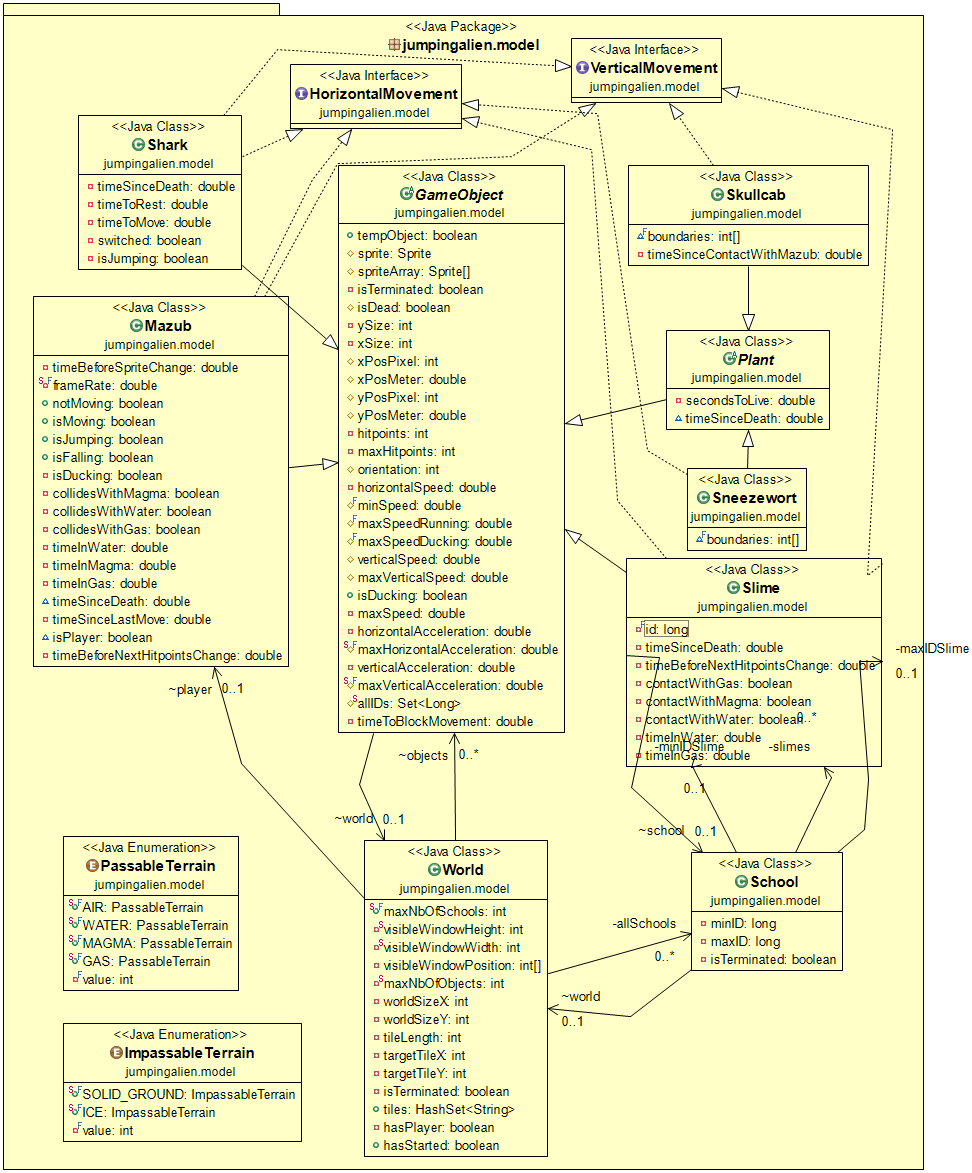
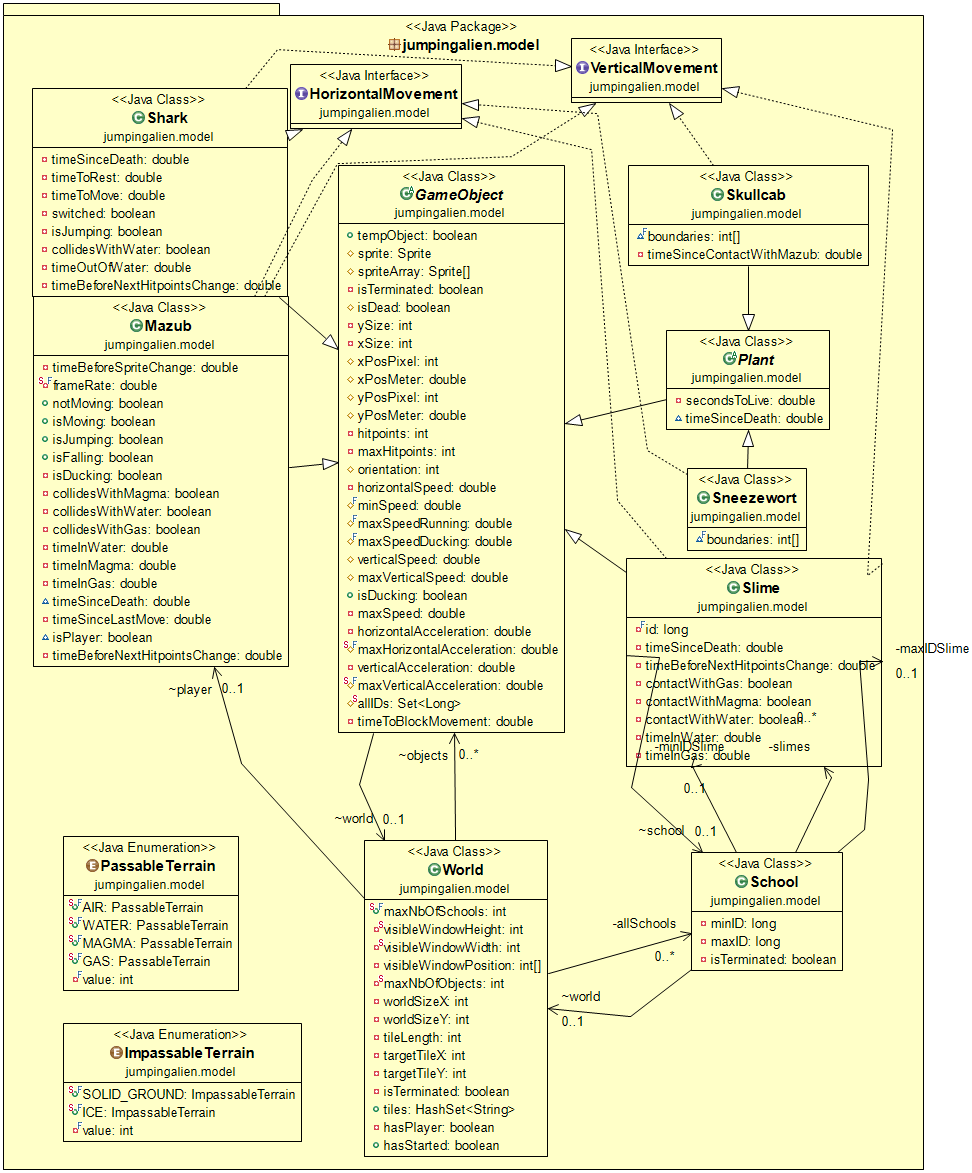
1252

Changed region(s): [[0.0309, 0.0614, 0.2778, 0.2455]]

diff --git a/OGP1819-JumpingAlien/src/jumpingalien/model/Shark.java b/OGP1819-JumpingAlien/src/jumpingalien/model/Shark.java
@@ -1,5 +1,6 @@
 package jumpingalien.model;
 
+import java.util.ArrayList;
 import java.util.List;
 
 import jumpingalien.util.Sprite;
@@ -115,14 +116,19 @@ public class Shark extends GameObject implements HorizontalMovement, VerticalMov
 
     private void stayInPosition(double dt) {
 	setSprite(getSpriteArray()[0]);
+	setHorizontalSpeedMeters(0);
+	setHorizontalAcceleration(0);
 	if (!isStandingOnImpassableTerrain() && !isUnderWater()) {
+	    setVerticalAcceleration(maxVerticalAcceleration);
 	    final double newPosY = getYPositionActual() + getVerticalSpeedMeters() * dt
 		    + 0.5 * getVerticalAcceleration() * dt * dt;
 	    final double newSpeedY = getVerticalSpeedMeters() + getVerticalAcceleration() * dt;
 	    setYPositionActual(newPosY);
 	    setVerticalSpeedMeters(newSpeedY);
-	} else
+	} else {
 	    setVerticalSpeedMeters(0);
+	    setVerticalAcceleration(0);
+	}
     }
 
     private double getTimeToRest() {
@@ -142,72 +148,61 @@ public class Shark extends GameObject implements HorizontalMovement, VerticalMov
 	return timeToMove;
     }
 
-    private void updatePosition(double dt) {
-	if (getOrientation() == -1)
-	    setSprite(getSpriteArray()[1]);
-	else if (getOrientation() == 1)
-	    setSprite(getSpriteArray()[2]);
-	else
-	    setSprite(getSpriteArray()[0]);
-	if (getTimeToMove() == 0.5 && (isInWater() || isStandingOnImpassableTerrain())) {
-	    setMaxSpeed();
-	    setVerticalSpeedMeters(2);
-	    if (isUnderWater())
-		setVerticalAcceleration(0.0);
-//		setVerticalSpeedMeters(0);
-	    else
-		setVerticalAcceleration(maxVerticalAcceleration);
-	} else if (isInWater())
-	    if (isUnderWater())
-		setVerticalAcceleration(0.0);
-	    else
-		setVerticalAcceleration(maxVerticalAcceleration);
-	else if (getTimeToMove() == 0.5 && !isUnderWater())
-	    setVerticalAcceleration(maxVerticalAcceleration);
-	else
-	    setVerticalAcceleration(maxVerticalAcceleration);
-
-	setHorizontalAcceleration(1.5 * getOrientation());
-
-	final double newPosX = getXPositionActual() + Math.abs(getHorizontalSpeedMeters()) * getOrientation() * dt
-		+ 0.5 * getHorizontalAcceleration() * dt * dt;
-	final double newPosY = getYPositionActual() + getVerticalSpeedMeters() * dt
-		+ 0.5 * getVerticalAcceleration() * dt * dt;
-	final double newSpeedX = Math.abs(getHorizontalSpeedMeters()) * getOrientation()
-		+ getHorizontalAcceleration() * dt;
-	final double newSpeedY = getVerticalSpeedMeters() + getVerticalAcceleration() * dt;
-	final int xSize = getXsize();
-	final int ySize = getYsize();
-
-	final Shark newSharkBoth = new Shark((int) (newPosX * 100), (int) (newPosY * 100), xSize, ySize, 1, 1, 10, 10,
-		0, 10, 0, 0, newSpeedX, newSpeedY, true, getSpriteArray());
-
-	final boolean canPlaceBothShark = getWorld().canPlaceGameObjectAdvanceTime(newSharkBoth, this);
-
-	if (canPlaceBothShark) {
-	    setXPositionActual(newPosX);
-	    setYPositionActual(newPosY);
-	    setHorizontalSpeedMeters(newSpeedX);
-	    setVerticalSpeedMeters(newSpeedY);
-	} else {
-	    setHorizontalSpeedMeters(0);
-	    setVerticalSpeedMeters(0);
-	    setHorizontalAcceleration(0);
-	}
-//	else if (canPlaceXShark) {
-//	    setHorizontalSpeedMeters(newSpeedX);
+//    private void updatePosition(double dt) {
+//	if (getOrientation() == -1)
+//	    setSprite(getSpriteArray()[1]);
+//	else if (getOrientation() == 1)
+//	    setSprite(getSpriteArray()[2]);
+//	else
+//	    setSprite(getSpriteArray()[0]);
+//
+//	if (getTimeToMove() == 0.5 && (isInWater() || isStandingOnImpassableTerrain())) {
+//	    setMaxSpeed();
+//	    setVerticalSpeedMeters(2);
+//	    if (isUnderWater())
+//		setVerticalAcceleration(0.0);
+////		setVerticalSpeedMeters(0);
+//	    else
+//		setVerticalAcceleration(maxVerticalAcceleration);
+//	} else if (isInWater())
+//	    if (isUnderWater())
+//		setVerticalAcceleration(0.0);
+//	    else
+//		setVerticalAcceleration(maxVerticalAcceleration);
+//	else if (getTimeToMove() == 0.5 && !isUnderWater())
+//	    setVerticalAcceleration(maxVerticalAcceleration);
+//	else
+//	    setVerticalAcceleration(maxVerticalAcceleration);
+//
+//	setHorizontalAcceleration(1.5 * getOrientation());
+//
+//	final double newPosX = getXPositionActual() + Math.abs(getHorizontalSpeedMeters()) * getOrientation() * dt
+//		+ 0.5 * getHorizontalAcceleration() * dt * dt;
+//	final double newPosY = getYPositionActual() + getVerticalSpeedMeters() * dt
+//		+ 0.5 * getVerticalAcceleration() * dt * dt;
+//	final double newSpeedX = Math.abs(getHorizontalSpeedMeters()) * getOrientation()
+//		+ getHorizontalAcceleration() * dt;
+//	final double newSpeedY = getVerticalSpeedMeters() + getVerticalAcceleration() * dt;
+//	final int xSize = getXsize();
+//	final int ySize = getYsize();
+//
+//	final Shark newSharkBoth = new Shark((int) (newPosX * 100), (int) (newPosY * 100), xSize, ySize, 1, 1, 10, 10,
+//		0, 10, 0, 0, newSpeedX, newSpeedY, true, getSpriteArray());
+//
+//	final boolean canPlaceBothShark = getWorld().canPlaceGameObjectAdvanceTime(newSharkBoth, this);
+//
+//	if (canPlaceBothShark) {
 //	    setXPositionActual(newPosX);
-//	    setVerticalSpeedMeters(0);
-//	} else if (canPlaceYShark) {
-//	    setVerticalSpeedMeters(newSpeedY);
 //	    setYPositionActual(newPosY);
-//	    setHorizontalSpeedMeters(0);
+//	    setHorizontalSpeedMeters(newSpeedX);
+//	    setVerticalSpeedMeters(newSpeedY);
 //	} else {
 //	    setHorizontalSpeedMeters(0);
 //	    setVerticalSpeedMeters(0);
 //	    setHorizontalAcceleration(0);
 //	}
-    }
+//
+//    }
 
     private double getTimeSinceDeath() {
 	return timeSinceDeath;
@@ -233,6 +228,9 @@ public class Shark extends GameObject implements HorizontalMovement, VerticalMov
     }
 
     private boolean isJumping;
+    private boolean collidesWithWater;
+    private double timeOutOfWater = 0;
+    private double timeBeforeNextHitpointsChange = 0;
 
     private boolean isUnderWater() {
 	if (getWorld() == null)
@@ -256,5 +254,97 @@ public class Shark extends GameObject implements HorizontalMovement, VerticalMov
 	    if (getWorld().getGeologicalFeatureTile(tile) == PassableTerrain.WATER.getValue())
 		return true;
 	return false;
+    }
+
+    private void updatePosition(double dt) {
+	if (getOrientation() == -1)
+	    setSprite(getSpriteArray()[1]);
+	else if (getOrientation() == 1)
+	    setSprite(getSpriteArray()[2]);
+	else
+	    setSprite(getSpriteArray()[0]);
+
+	if (getTimeToMove() == 0.5) {
+	    if (isInWater() || isStandingOnImpassableTerrain())
+		setVerticalSpeedMeters(2.0);
+	    if (isUnderWater()) {
+		setVerticalAcceleration(0);
+		if (getVerticalSpeedMeters() < 0)
+		    setVerticalSpeedMeters(0);
+	    } else
+		setVerticalAcceleration(maxVerticalAcceleration);
+	} else if (isUnderWater()) {
+	    setVerticalAcceleration(0);
+	    if (getVerticalSpeedMeters() < 0)
+		setVerticalSpeedMeters(0);
+	} else
+	    setVerticalAcceleration(maxVerticalAcceleration);
+	setHorizontalAcceleration(1.5 * getOrientation());
+
+	final double newPosX = getXPositionActual() + Math.abs(getHorizontalSpeedMeters()) * getOrientation() * dt
+		+ 0.5 * getHorizontalAcceleration() * dt * dt;
+	final double newPosY = getYPositionActual() + getVerticalSpeedMeters() * dt
+		+ 0.5 * getVerticalAcceleration() * dt * dt;
+	final double newSpeedX = Math.abs(getHorizontalSpeedMeters()) * getOrientation()
+		+ getHorizontalAcceleration() * dt;
+	final double newSpeedY = getVerticalSpeedMeters() + getVerticalAcceleration() * dt;
+	final int xSize = getXsize();
+	final int ySize = getYsize();
+
+	final Shark newSharkBoth = new Shark((int) (newPosX * 100), (int) (newPosY * 100), xSize, ySize, 1, 1, 10, 10,
+		0, 10, 0, 0, newSpeedX, newSpeedY, true, getSpriteArray());
+
+	if (getWorld().canPlaceGameObjectAdvanceTime(newSharkBoth, this)) {
+	    setXPositionActual(newPosX);
+	    setYPositionActual(newPosY);
+	    setHorizontalSpeedMeters(newSpeedX);
+	    setVerticalSpeedMeters(newSpeedY);
+	} else {
+	    setHorizontalSpeedMeters(0);
+	    setVerticalSpeedMeters(0);
+	    setHorizontalAcceleration(0);
+	}
+
+	List<int[]> tiles = new ArrayList<int[]>();
+	tiles = getAllOverlappingTiles();
+
+	collidesWithWater = false;
+
+	for (final int[] tile : tiles)
+	    if (getWorld().getGeologicalFeatureTile(tile) == PassableTerrain.WATER.getValue())
+		collidesWithWater = true;
+
+	if (!collidesWithWater)
+	    timeOutOfWater += dt;
+	else
+	    timeOutOfWater = 0;
+
+	if (timeOutOfWater >= 0.2) {
+	    timeOutOfWater -= 0.2;
+	    changeHitPoints(-6);
+	}
+
+	if (getWorld() != null)
+	    for (final Object gameObject : getWorld().getAllObjects()) {
+		if (newSharkBoth.collidesWith((GameObject) gameObject) && gameObject instanceof Slime)
+		    changeHitPoints(10);
+
+		if (newSharkBoth.collidesWith((GameObject) gameObject) && gameObject instanceof Mazub)
+		    if (getTimeBeforeNextHitpointsChange() <= 0) {
+			changeHitPoints(-50);
+			setTimeBeforeNextHitpointsChange(0.6);
+		    }
+	    }
+
+	setTimeBeforeNextHitpointsChange(getTimeBeforeNextHitpointsChange() - dt);
+	newSharkBoth.terminate();
+    }
+
+    private double getTimeBeforeNextHitpointsChange() {
+	return timeBeforeNextHitpointsChange;
+    }
+
+    private void setTimeBeforeNextHitpointsChange(double dt) {
+	timeBeforeNextHitpointsChange = dt;
     }
 }

diff --git a/OGP1819-JumpingAlien/src/jumpingalien/model/Slime.java b/OGP1819-JumpingAlien/src/jumpingalien/model/Slime.java
@@ -101,9 +101,14 @@ public class Slime extends GameObject implements Comparable<Slime>, HorizontalMo
     @Override
     public void advanceTime(double dt, double timeStep) {
 	if (!isDead()) {
-	    while (dt > timeStep && !isDead() && !isTerminated()) {
-		updatePosition(timeStep);
-		dt -= timeStep;
+	    double nextTimeStep = timeStep;
+	    while (dt > nextTimeStep && !isDead() && !isTerminated()) {
+		updatePosition(nextTimeStep);
+		dt -= nextTimeStep;
+		if (getWorld() != null)
+		    nextTimeStep = getWorld().getTimeStep(this, dt);
+		else
+		    nextTimeStep = timeStep;
 	    }
 	    updatePosition(dt);
 	    dt = 0;
@@ -146,6 +151,7 @@ public class Slime extends GameObject implements Comparable<Slime>, HorizontalMo
     }
 
     private void updatePosition(double dt) {
+	setHorizontalAcceleration(0.7);
 	final double newPosX = getXPositionActual() + getOrientation() * Math.abs(getHorizontalSpeedMeters()) * dt
 		+ 0.5 * getOrientation() * Math.abs(getHorizontalAcceleration()) * dt * dt;
 	final double newPosY = getYPositionActual() + getVerticalSpeedMeters() * dt
@@ -185,17 +191,18 @@ public class Slime extends GameObject implements Comparable<Slime>, HorizontalMo
 			    setOrientation(getOrientation() * -1);
 			    if (getSchool().getAllSlimes().size() < slime.getSchool().getAllSlimes().size())
 				switchSchool(slime.getSchool());
-			    break;
+
 			}
+
 		if (getWorld().getPlayer() != null)
-		    if (newSlime.collidesWith(getWorld().getPlayer())) {
+		    if (newSlime.collidesWith(getWorld().getPlayer()))
 			if (getTimeBeforeNextHitpointsChange() <= 0) {
 			    changeHitPoints(-30);
 			    changeSchoolHitPoints();
 			    setTimeBeforeNextHitpointsChange(0.6);
 			}
-			setHorizontalSpeedMeters(0);
-		    }
+//			setHorizontalSpeedMeters(0);
+
 	    }
 	    newSlime.terminate();
 	}

diff --git a/OGP1819-JumpingAlien/src/jumpingalien/model/Mazub.java b/OGP1819-JumpingAlien/src/jumpingalien/model/Mazub.java
@@ -493,6 +493,7 @@ public class Mazub extends GameObject implements HorizontalMovement, VerticalMov
     private void updatePosition(double dt) {
 	if (!isStandingOnImpassableTerrain())
 	    setVerticalAcceleration(maxVerticalAcceleration);
+
 	final double newPosX = getXPositionActual() + getHorizontalSpeedMeters() * dt
 		+ 0.5 * getHorizontalAcceleration() * dt * dt;
 	final double newPosY = getYPositionActual() + getVerticalSpeedMeters() * dt
@@ -621,6 +622,11 @@ public class Mazub extends GameObject implements HorizontalMovement, VerticalMov
 		if (newMazub.collidesWith((GameObject) object) && object instanceof Slime
 			&& !((GameObject) object).isDead() && getTimeBeforeNextHitpointsChange() <= 0) {
 		    changeHitPoints(-20);
+		    setTimeBeforeNextHitpointsChange(0.6);
+		}
+		if (newMazub.collidesWith((GameObject) object) && object instanceof Shark
+			&& !((GameObject) object).isDead() && getTimeBeforeNextHitpointsChange() <= 0) {
+		    changeHitPoints(-50);
 		    setTimeBeforeNextHitpointsChange(0.6);
 		}
 	    }
